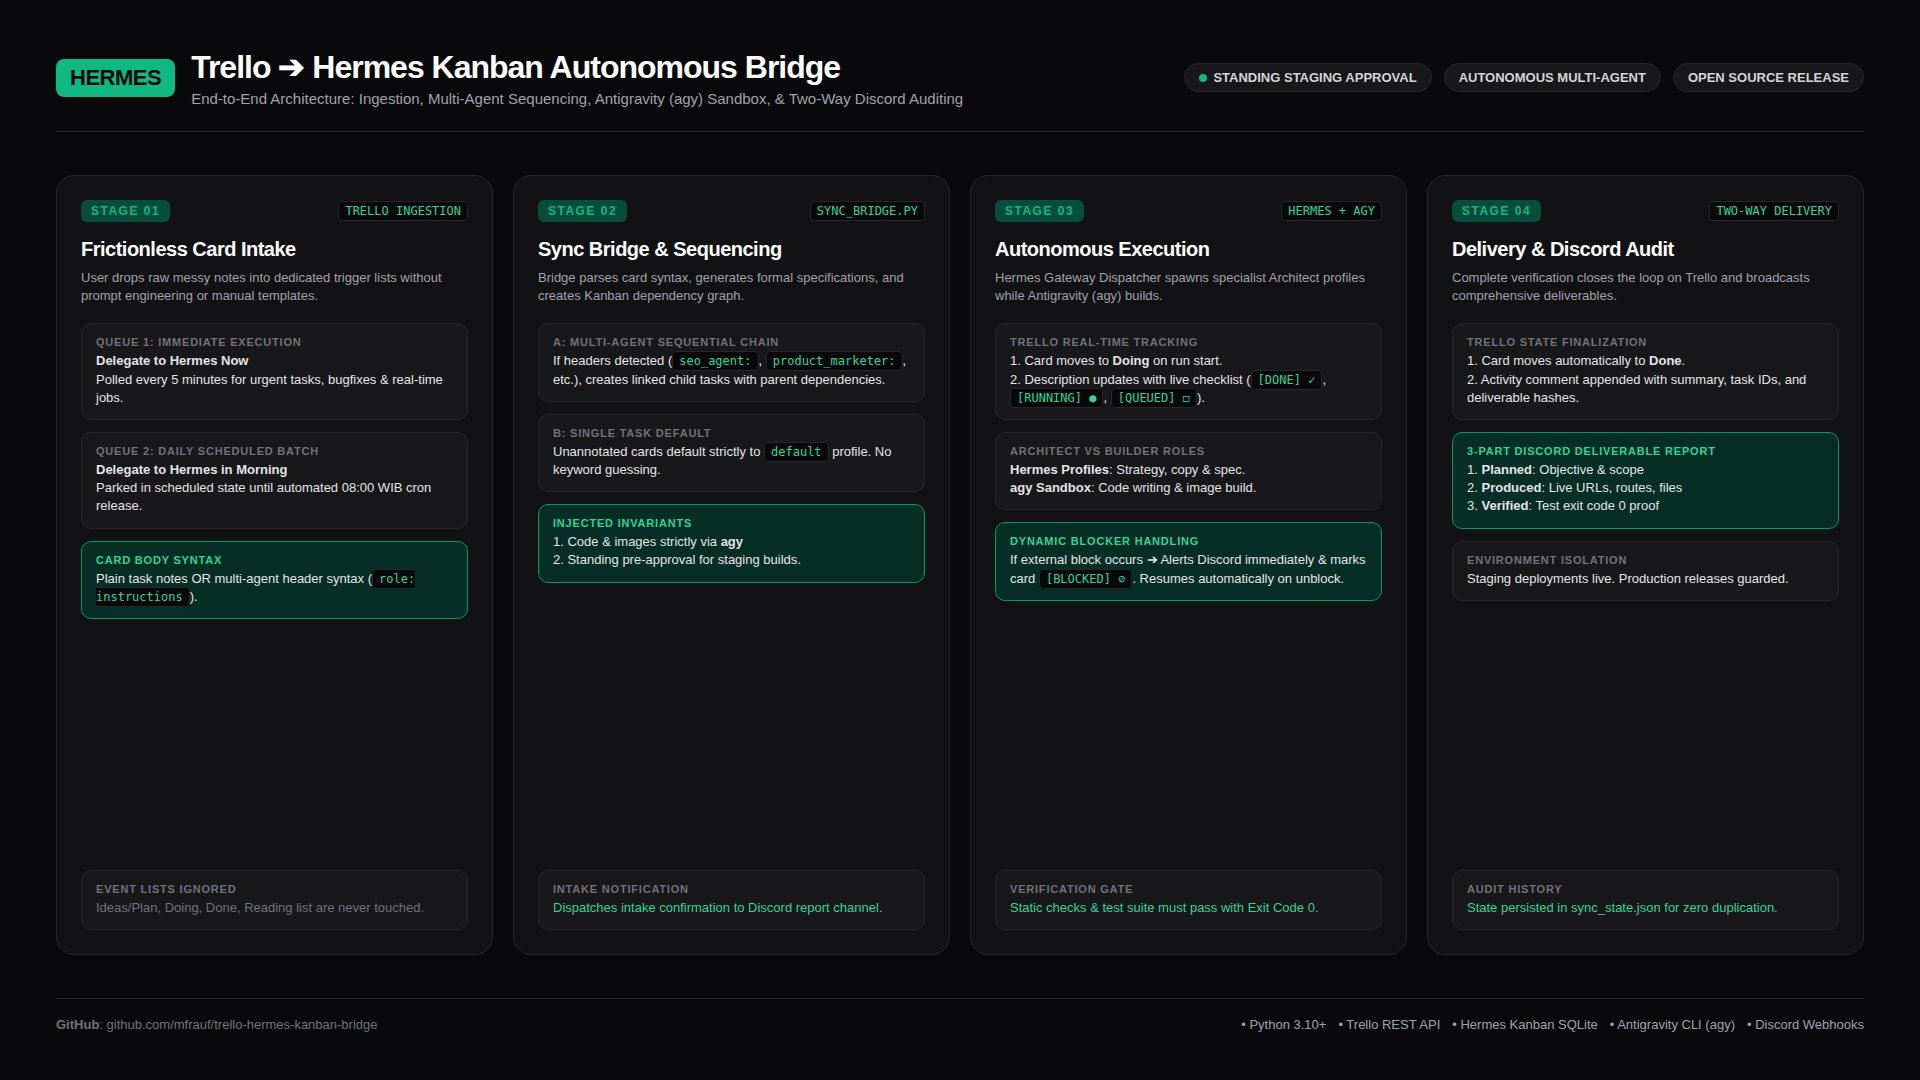
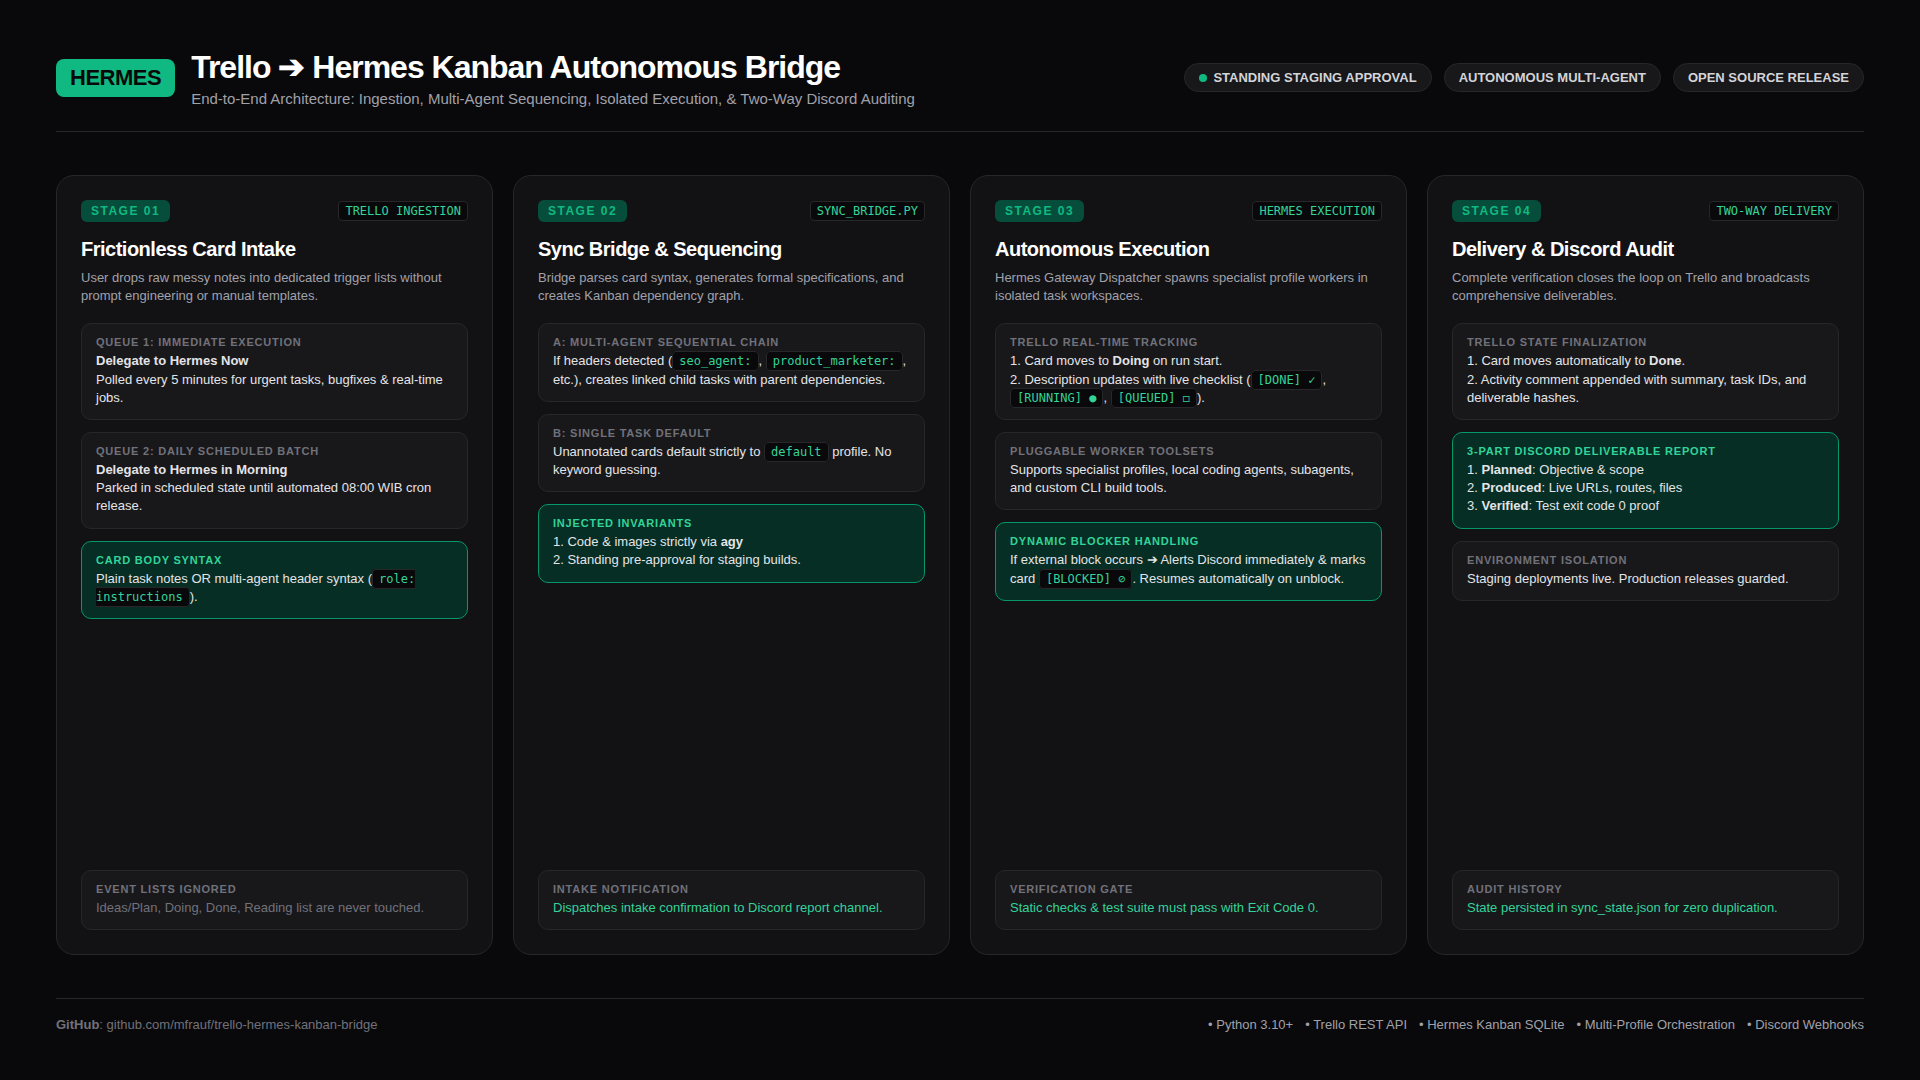
feat: make execution engine agnostic for open-source users

diff --git a/trello_hermes_sync.py b/trello_hermes_sync.py
@@ -305,7 +305,6 @@ pipeline_stage: {idx}/{len(stages)}
 {stage["instructions"]}
 
 ### Invariants & Quality Standards
-- Builder execution: Code implementation and image rendering MUST be executed via Antigravity CLI (`agy`).
 - Standing pre-approval: Proceed through isolated builds, code changes, and staging deployments automatically (zero human approval pauses).
 - Preserve existing working behavior and contracts.
 - Run regression checks before declaring done.
@@ -364,7 +363,7 @@ mode: {mode}
 
                     pipeline_desc += f"""
 ### Invariants
-- Code execution strictly via Antigravity CLI (`agy`).
+- Execution: Run builds and tests in isolated workspaces.
 - Verification with exit code 0 before production push.
 """
                     trello_api(f"cards/{card_id}", method="PUT", data={"desc": pipeline_desc})

diff --git a/README.md b/README.md
@@ -1,6 +1,6 @@
 # Trello to Hermes Kanban Autonomous Bridge
 
-An automated, two-way bridge connecting a **Trello Board** to **Hermes Agent** multi-profile Kanban queues, executing code and builds via **Antigravity CLI (`agy`)**, and reporting live updates to **Discord**.
+An automated, two-way bridge connecting a **Trello Board** to **Hermes Agent** multi-profile Kanban queues, coordinating specialist AI agents with live updates to **Discord**.
 
 ![Workflow Diagram](assets/workflow_diagram.png)
 
@@ -24,8 +24,8 @@ Here is the exact step-by-step lifecycle of a task from creation to completion:
 [3. Autonomous Multi-Agent Execution]
    │  • First stage starts ➔ Trello card automatically moves to "Doing".
    │  • Discord receives start notification.
-   │  • Hermes Architect profiles execute strategy/copy/spec.
-   │  • Antigravity CLI (`agy`) builds code & renders media in sandbox workspaces.
+   │  • Hermes specialist profiles execute their assigned tasks in isolated workspaces.
+   │  • Supports any coding agent, subagent toolset, or custom CLI builder in your environment.
    │  • If a task blocks ➔ Discord receives instant blocker alert, Trello updates to [BLOCKED] ⊘.
    │  • Once unblocked/resumed ➔ Card updates to [RUNNING] ● and continues.
    │  • Verification: Every stage must pass tests (Exit Code 0).
@@ -50,9 +50,9 @@ Here is the exact step-by-step lifecycle of a task from creation to completion:
    - The bridge automatically creates linked child tasks with dependencies in Hermes Kanban.
    - Single tasks without agent annotations default cleanly to the `default` profile.
 
-3. **Architect vs Builder Separation**:
-   - **Hermes Agent Profiles** direct strategy, research, copywriting, and design specs.
-   - **Antigravity CLI (`agy`)** executes all codebase modifications, image rendering, and test verification in sandbox workspaces.
+3. **Pluggable Agent Architecture**:
+   - Works with any Hermes specialist profile, coding agent, or subagent toolset configured on your instance.
+   - Preserves strict separation between planning, execution, and verification phases.
 
 4. **Live Two-Way Sync & Auditing**:
    - Real-time card movement: `Trigger List` ➔ `Doing` ➔ `Done`.
@@ -66,7 +66,6 @@ Here is the exact step-by-step lifecycle of a task from creation to completion:
 
 ### 1. Prerequisites
 - [Hermes Agent](https://hermes-agent.nousresearch.com/docs) installed on your host/VPS.
-- [Antigravity CLI (`agy`)](https://github.com/google) installed for builder execution.
 - Python 3.10+.
 
 ### 2. Configure Environment Variables
@@ -137,7 +136,7 @@ Create a card with title `[Hermes] Launch New Product Page` and description:
 seo_agent: Research search intent and target keywords for the product
 product_marketer: Write high-converting landing page copy based on SEO intent
 uiux_designer: Create responsive layout and design handoff
-default: Build page in repository using agy and deploy to staging
+default: Build page in repository and deploy to staging
 ```
 Hermes will automatically create 4 sequential child tasks linked by dependencies and update the Trello card with real-time stage tracking.
 
@@ -146,7 +145,7 @@ Create a card with title `[Hermes] Fix API webhook verification error`:
 ```text
 Investigate 401 error in webhook handler and add regression tests.
 ```
-Hermes will assign this task to the `default` profile and execute the fix via `agy`.
+Hermes will assign this task to the `default` profile and execute the fix in its workspace.
 
 ---
 
